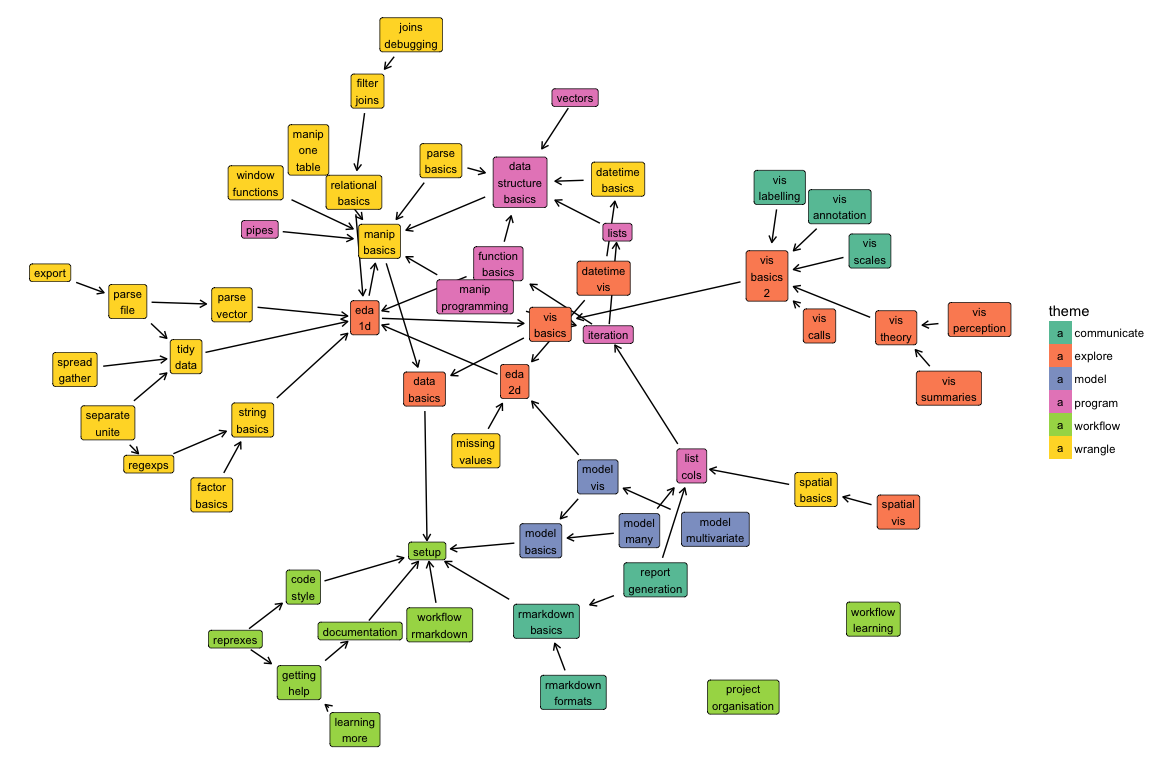
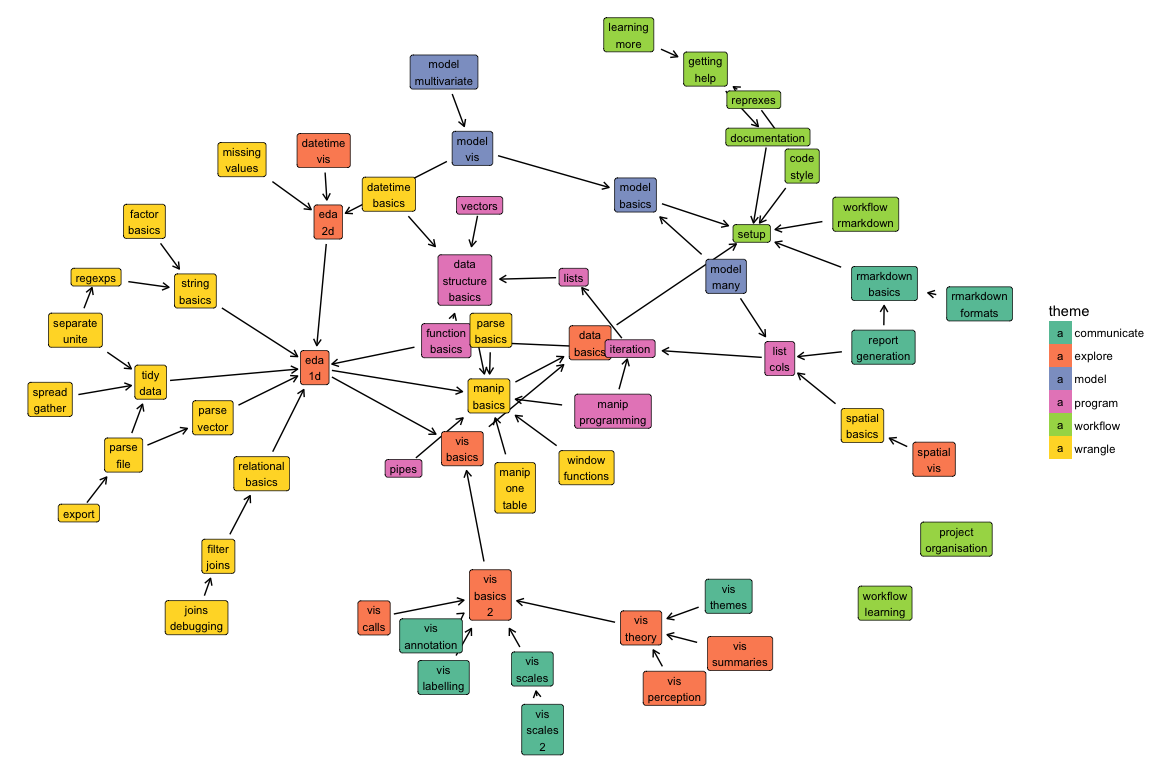
Add vis-themes and vis-scales-2

diff --git a/storyboard.md b/storyboard.md
@@ -223,8 +223,8 @@
 |ggplot2-4                             |Mastering the grammar                             |                                                                                   |                                                                             |                                                                                     |                                                                                       |                                                                                 |                                                                               |                                                                                       |                                                                       |                                                                                     |                                                                                     |
 |ggplot2-5                             |Build a plot layer by layer                       |                                                                                   |                                                                             |                                                                                     |                                                                                       |                                                                                 |                                                                               |                                                                                       |                                                                       |                                                                                     |                                                                                     |
 |ggplot2-6                             |Scales, axes and legends                          |                                                                                   |                                                                             |                                                                                     |                                                                                       |                                                                                 |                                                                               |[datetime-vis](https://dcl-2017-01.github.io/curriculum/datetime-vis.html)             |                                                                       |                                                                                     |                                                                                     |
-|ggplot2-7                             |Positioning                                       |                                                                                   |                                                                             |                                                                                     |                                                                                       |                                                                                 |                                                                               |                                                                                       |                                                                       |                                                                                     |                                                                                     |
-|ggplot2-8                             |Themes                                            |                                                                                   |                                                                             |                                                                                     |                                                                                       |                                                                                 |                                                                               |                                                                                       |                                                                       |                                                                                     |                                                                                     |
+|ggplot2-7                             |Positioning                                       |                                                                                   |                                                                             |                                                                                     |                                                                                       |[vis-scales-2](https://dcl-2017-01.github.io/curriculum/vis-scales-2.html)       |                                                                               |                                                                                       |                                                                       |                                                                                     |                                                                                     |
+|ggplot2-8                             |Themes                                            |                                                                                   |                                                                             |                                                                                     |                                                                                       |[vis-themes](https://dcl-2017-01.github.io/curriculum/vis-themes.html)           |                                                                               |                                                                                       |                                                                       |                                                                                     |                                                                                     |
 |ggplot2-9                             |Data analysis                                     |                                                                                   |                                                                             |                                                                                     |                                                                                       |                                                                                 |                                                                               |                                                                                       |                                                                       |                                                                                     |                                                                                     |
 |ggplot2-10                            |Data transformation                               |                                                                                   |                                                                             |                                                                                     |                                                                                       |                                                                                 |                                                                               |                                                                                       |                                                                       |                                                                                     |                                                                                     |
 |ggplot2-11                            |Modelling for visualisation                       |                                                                                   |                                                                             |                                                                                     |                                                                                       |                                                                                 |                                                                               |                                                                                       |                                                                       |                                                                                     |                                                                                     |

diff --git a/docs/upcoming.md b/docs/upcoming.md
@@ -213,14 +213,26 @@ title: Theme index
 <tr>
 <td></td>
   <td colspan="1"></td>
+  <td colspan="3"><a class="wrangle" href="datetime-basics.html">Date/time basics</a></td>
+  <td colspan="4"></td>
+</tr>
+<tr>
+<td></td>
+  <td colspan="4"></td>
+  <td colspan="3"><a class="communicate" href="vis-scales-2.html">Advanced scales</a></td>
+  <td colspan="1"></td>
+</tr>
+<tr>
+<td></td>
+  <td colspan="1"></td>
   <td colspan="3"><a class="wrangle" href="regexps.html">Regular expressions</a></td>
   <td colspan="4"></td>
 </tr>
 <tr>
 <td></td>
-  <td colspan="1"></td>
-  <td colspan="3"><a class="wrangle" href="datetime-basics.html">Date/time basics</a></td>
   <td colspan="4"></td>
+  <td colspan="3"><a class="communicate" href="vis-themes.html">ggplot2 themes</a></td>
+  <td colspan="1"></td>
 </tr>
 <tr>
 <td></td>

diff --git a/docs/vis-themes.md b/docs/vis-themes.md
@@ -1,0 +1,19 @@
+---
+title: ggplot2 themes
+---
+
+<!-- Generated automatically from vis-themes.yml. Do not edit by hand -->
+
+# ggplot2 themes <small class='communicate'>[communicate]</small>
+<small>(Builds on: [The grammar of graphics](vis-theory.md))</small>
+
+ggplot2 themes control the appearance of all non-data elements of the plot.
+They are not generally important during the exploratory phase of a data
+analysis, but are important during the communication phase. They're
+particularly important if you want to match an existing publication style.
+
+## Readings
+
+  * [Themes](http://link.springer.com.ezproxy.stanford.edu/chapter/10.1007/978-3-319-24277-4_8) [ggplot2-8]
+
+

diff --git a/docs/vis-theory.md b/docs/vis-theory.md
@@ -6,7 +6,7 @@ title: The grammar of graphics
 
 # The grammar of graphics <small class='explore'>[explore]</small>
 <small>(Builds on: [Visualisation basics (2)](vis-basics-2.md))</small>  
-<small>(Leads to: [Perception](vis-perception.md), [Grouped summaries](vis-summaries.md))</small>
+<small>(Leads to: [Perception](vis-perception.md), [Grouped summaries](vis-summaries.md), [ggplot2 themes](vis-themes.md))</small>
 
 Now is a good time to learn a bit more about the underlying theory
 of ggplot2. Read these two short chapters to familiarise yourself

diff --git a/docs/vis-scales.md b/docs/vis-scales.md
@@ -5,7 +5,8 @@ title: Scales
 <!-- Generated automatically from vis-scales.yml. Do not edit by hand -->
 
 # Scales <small class='communicate'>[communicate]</small>
-<small>(Builds on: [Visualisation basics (2)](vis-basics-2.md))</small>
+<small>(Builds on: [Visualisation basics (2)](vis-basics-2.md))</small>  
+<small>(Leads to: [Advanced scales](vis-scales-2.md))</small>
 
 You've already learned about transformation functions that you use with
 `dplyr::mutate()`. They take one (or more) vectors and return a transformed

diff --git a/docs/vis-scales-2.md b/docs/vis-scales-2.md
@@ -1,0 +1,17 @@
+---
+title: Advanced scales
+---
+
+<!-- Generated automatically from vis-scales-2.yml. Do not edit by hand -->
+
+# Advanced scales <small class='communicate'>[communicate]</small>
+<small>(Builds on: [Scales](vis-scales.md))</small>
+
+You've learned the basics of controlling scales. Now we'll dive into more
+of the details.
+
+## Readings
+
+  * [Positioning](http://link.springer.com.ezproxy.stanford.edu/chapter/10.1007/978-3-319-24277-4_7) [ggplot2-7]
+
+
